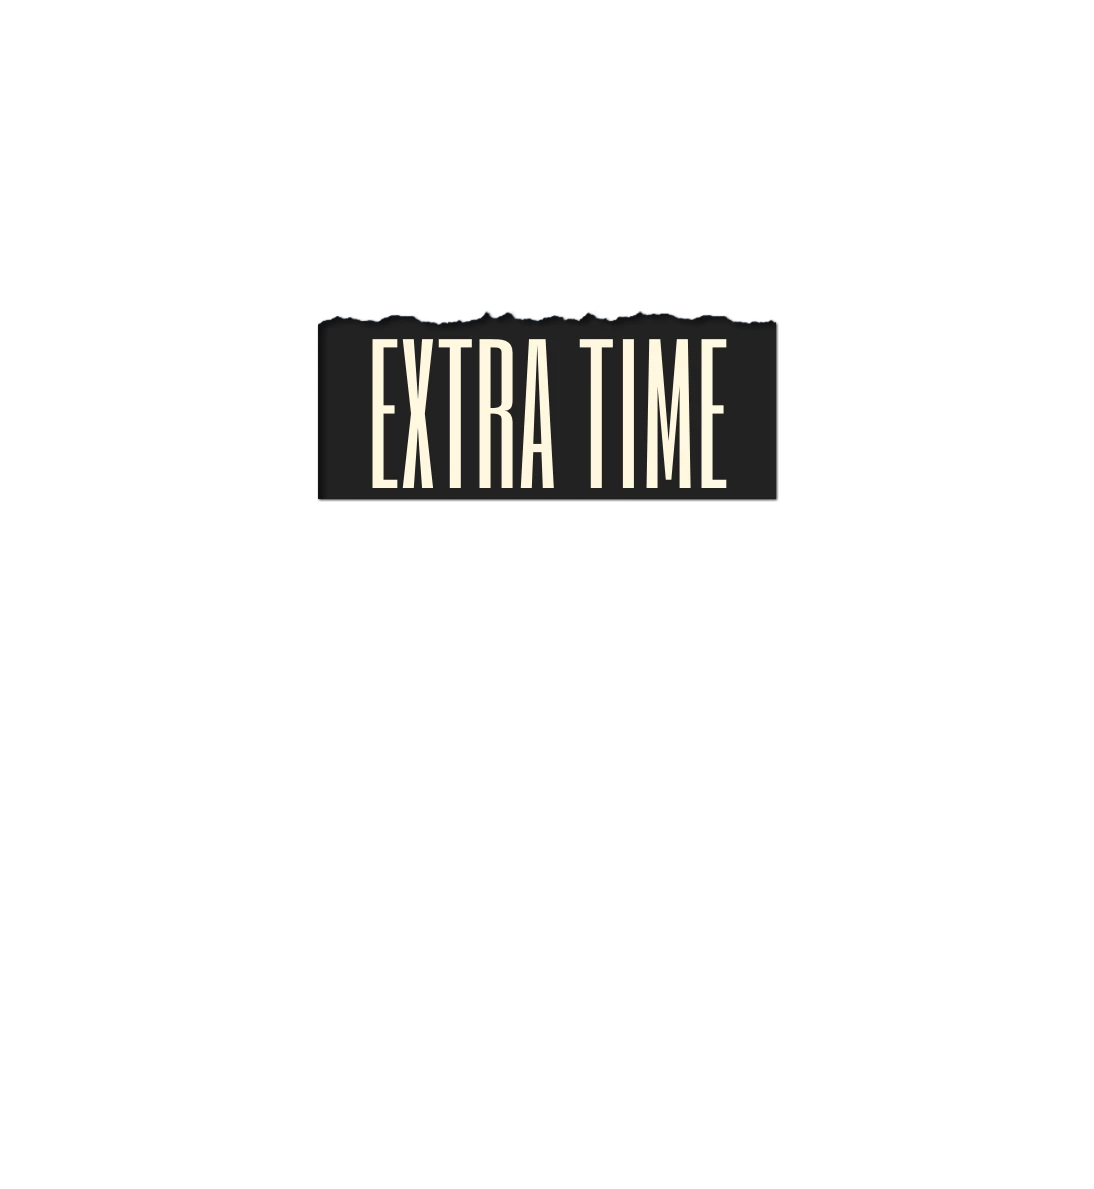
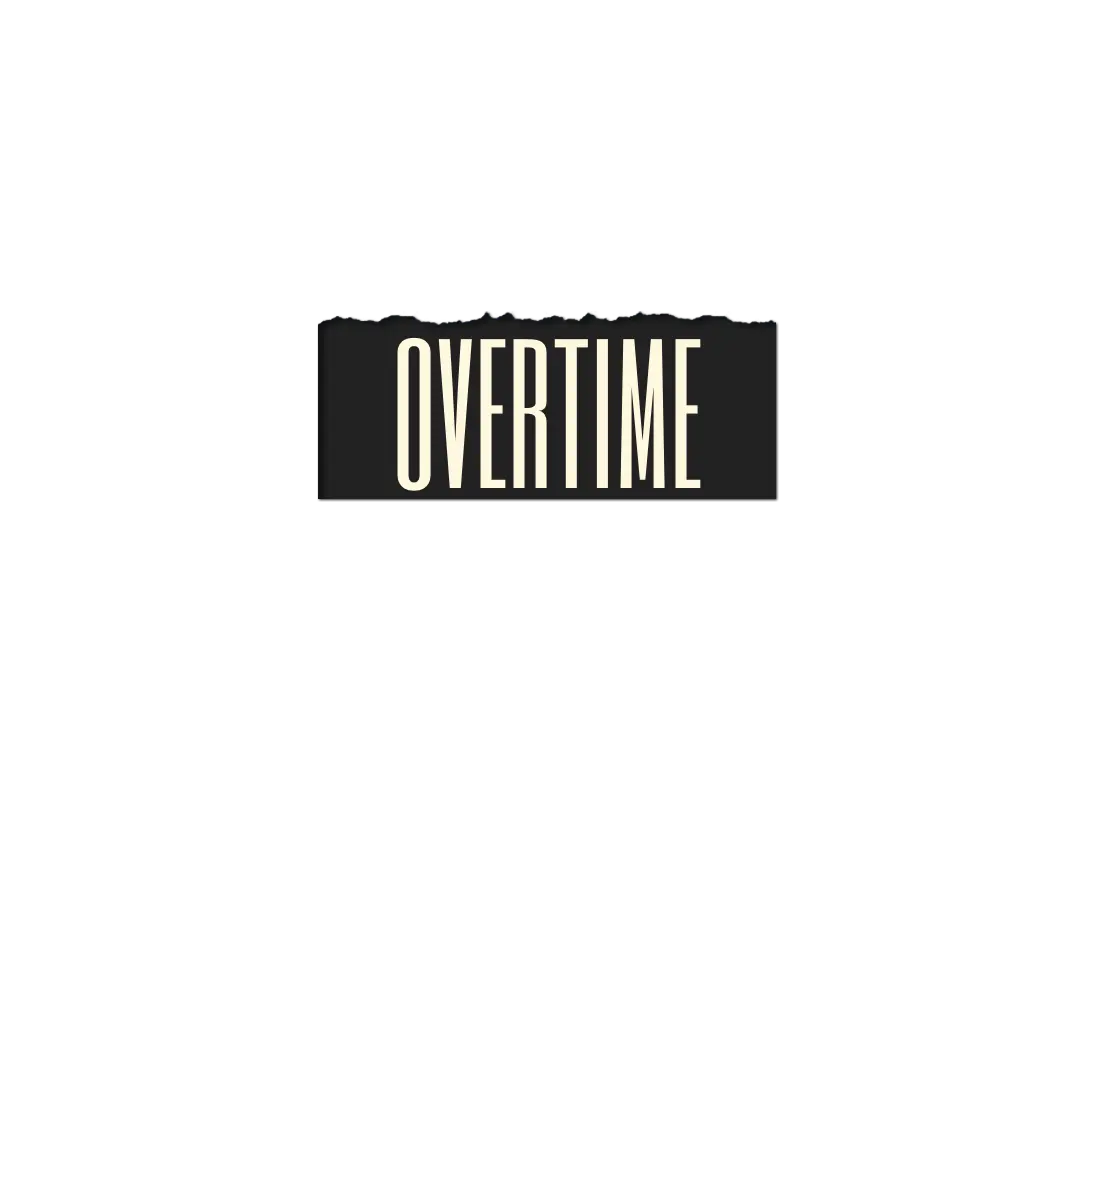
update

Changed region(s): [[0.3419, 0.2801, 0.6527, 0.4357]]

diff --git a/index.html b/index.html
@@ -1,10 +1,10 @@
 <!DOCTYPE html>
-<html lang="en">
+<html lang="de">
 
 <head>
   <meta charset="UTF-8" />
   <meta name="viewport" content="width=device-width, initial-scale=1.0" />
-  <title>Extra Time</title>
+  <title>Overtime</title>
   <link href="https://fonts.googleapis.com/css2?family=Russo+One&family=Poppins:wght@400;700&display=swap"
     rel="stylesheet">
   <link rel="stylesheet" href="style.css">

diff --git a/index2.html b/index2.html
@@ -1,9 +1,9 @@
 <!DOCTYPE html>
-<html lang="en">
+<html lang="de">
 <head>
   <meta charset="UTF-8" />
   <meta name="viewport" content="width=device-width, initial-scale=1.0" />
-  <title>Extra Time</title>
+  <title>Overtime</title>
   <link href="https://fonts.googleapis.com/css2?family=Russo+One&family=Poppins:wght@400;700&display=swap" rel="stylesheet">
 
   <link rel="stylesheet" href="style2.css">

diff --git a/end.html b/end.html
@@ -1,5 +1,5 @@
 <!DOCTYPE html>
-<html lang="en">
+<html lang="de">
 <head>
 <meta charset="UTF-8">
 <meta name="viewport" content="width=device-width, initial-scale=1.0">

diff --git a/game.html b/game.html
@@ -1,5 +1,5 @@
 <!DOCTYPE html>
-<html lang="en">
+<html lang="de">
 <head>
 <meta charset="UTF-8">
 <meta name="viewport" content="width=device-width, initial-scale=1.0">

diff --git a/game2.html b/game2.html
@@ -1,5 +1,5 @@
 <!DOCTYPE html>
-<html lang="en">
+<html lang="de">
 <head>
 <meta charset="UTF-8">
 <meta name="viewport" content="width=device-width, initial-scale=1.0">

diff --git a/page1.1.html b/page1.1.html
@@ -1,5 +1,5 @@
 <!DOCTYPE html>
-<html lang="en">
+<html lang="de">
 <head>
 <meta charset="UTF-8">
 <meta name="viewport" content="width=device-width, initial-scale=1.0">

diff --git a/page2.1.html b/page2.1.html
@@ -1,5 +1,5 @@
 <!DOCTYPE html>
-<html lang="en">
+<html lang="de">
 <head>
 <meta charset="UTF-8">
 <meta name="viewport" content="width=device-width, initial-scale=1.0">

diff --git a/page2.html b/page2.html
@@ -1,5 +1,5 @@
 <!DOCTYPE html>
-<html lang="en">
+<html lang="de">
 <head>
 <meta charset="UTF-8">
 <meta name="viewport" content="width=device-width, initial-scale=1.0">

diff --git a/page3.1.html b/page3.1.html
@@ -1,5 +1,5 @@
 <!DOCTYPE html>
-<html lang="en">
+<html lang="de">
 <head>
 <meta charset="UTF-8">
 <meta name="viewport" content="width=device-width, initial-scale=1.0">

diff --git a/page3.html b/page3.html
@@ -1,5 +1,5 @@
 <!DOCTYPE html>
-<html lang="en">
+<html lang="de">
 <head>
 <meta charset="UTF-8">
 <meta name="viewport" content="width=device-width, initial-scale=1.0">

diff --git a/page4.1.html b/page4.1.html
@@ -1,5 +1,5 @@
 <!DOCTYPE html>
-<html lang="en">
+<html lang="de">
 <head>
 <meta charset="UTF-8">
 <meta name="viewport" content="width=device-width, initial-scale=1.0">

diff --git a/page4.html b/page4.html
@@ -1,5 +1,5 @@
 <!DOCTYPE html>
-<html lang="en">
+<html lang="de">
 <head>
 <meta charset="UTF-8">
 <meta name="viewport" content="width=device-width, initial-scale=1.0">
